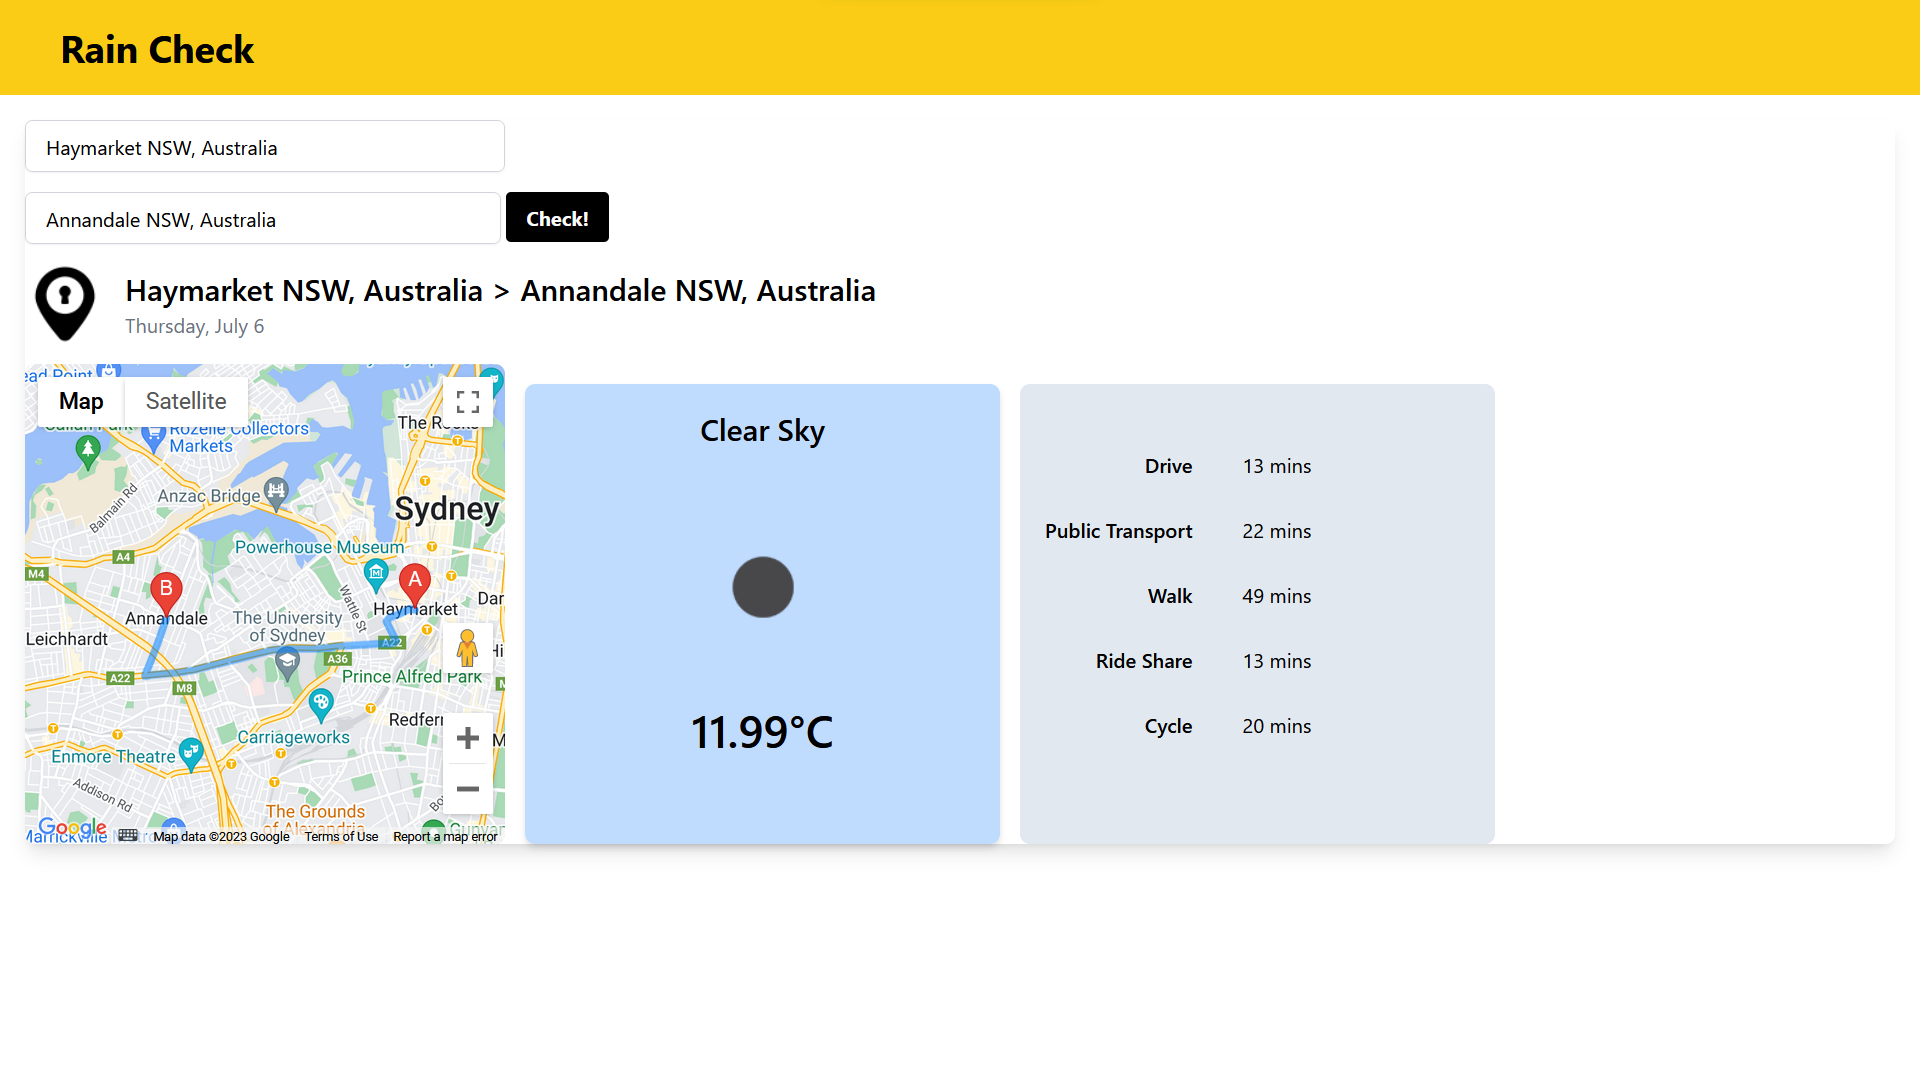
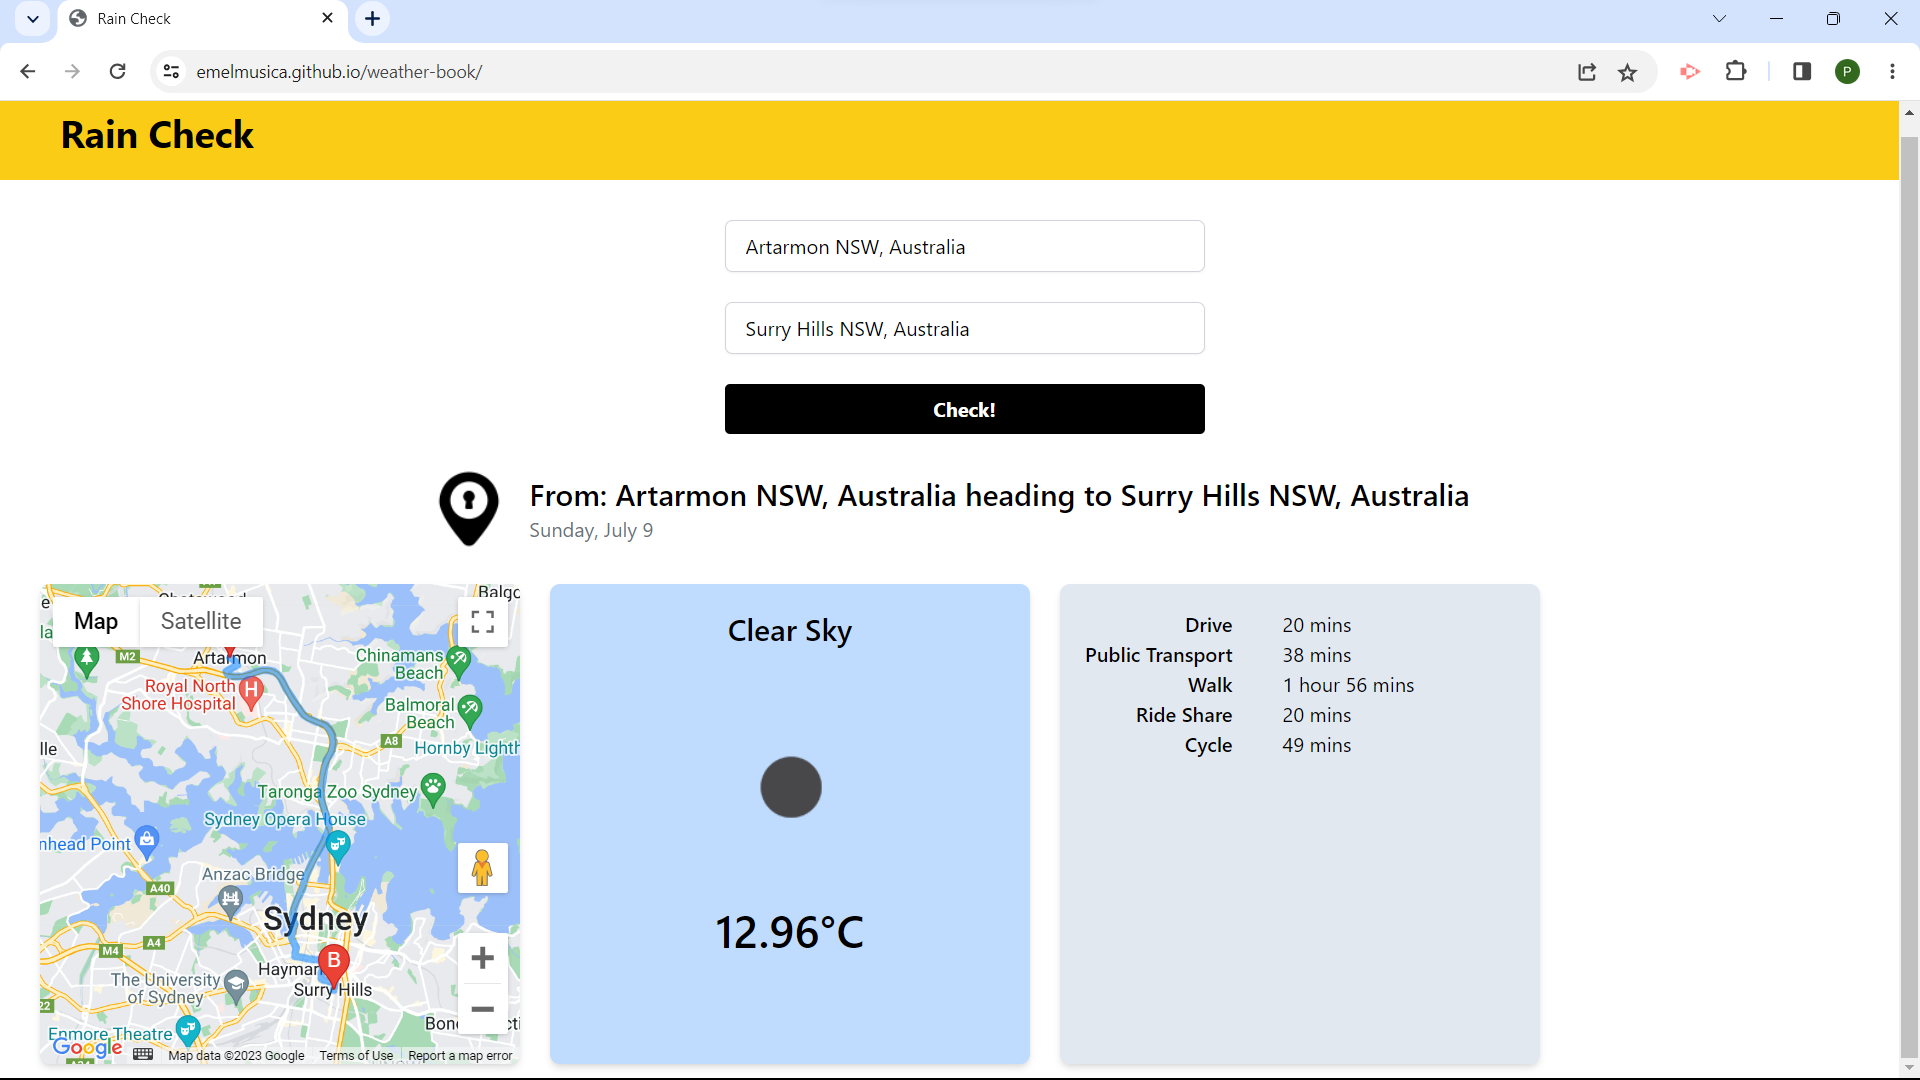
Updated screenshots and last minute css adjustment

diff --git a/index.html b/index.html
@@ -57,14 +57,14 @@
 
         <!-- Directions Box -->
         <div class="h-96 w-full md:w-96 m-3 flex flex-row bg-slate-200 shadow-md rounded-lg"><!--Travel Options Display-->
-            <ul class="p-2 m-3 text-right font-semibold Flex-none">
+            <ul class="p-2 m-3 text-right font-semibold Flex-none w-1/2 space-y-5">
             <li onclick="mapDriving()">Drive</li>
             <li onclick="mapTransit()">Public Transport</li>
             <li onclick="mapWalking()">Walk</li>
             <li onclick="mapDriving()">Ride Share</li>
             <li onclick="mapBicycling()">Cycle</li>
             </ul>
-            <ul class="p-2 m-3 text-left Flex-none">
+            <ul class="p-2 m-3 text-left Flex-none space-y-5">
             <li id="drive-time" onclick="mapDriving()">Please select your route</li><!--These need to have some value since they li will align incorrectly if element cannot be reached-->
             <li id="public-transport-time" onclick="mapTransit()"></li>
             <li id="walk-time" onclick="mapWalking()"></li>

diff --git a/assets/js/script.js b/assets/js/script.js
@@ -1,5 +1,3 @@
-// Day.js Code
-
 const dateEl =$('#date');
 const weatherIcoEl =$('#weather-icon');
 const weatherStaEl =$('#weather-status');
@@ -11,6 +9,7 @@ const walkTimeEl =$('#walk-time');
 const shareTimeEl =$('#share-time');
 const cycleTimeEl =$('#cycle-time');
 
+//Dayjs Code
 var today = dayjs();
 
 weatherStaEl.text('Check Weather at your Destination')
@@ -163,13 +162,9 @@ function getWeather(lat, lon) {
     })
     .then(function (locRes) {
 
-
-      console.log(locRes);
-
       if (!locRes) {
         console.log('No results found!');
       } else {
-        console.log(locRes.weather, locRes.main);
         $('#weather-status').text(locRes.weather[0].description);
         $('#temperature').text(locRes.main.temp + "°C");
         $('#weather-icon').attr('src', 'https://openweathermap.org/img/wn/' + locRes.weather[0].icon +'@2x.png')  
